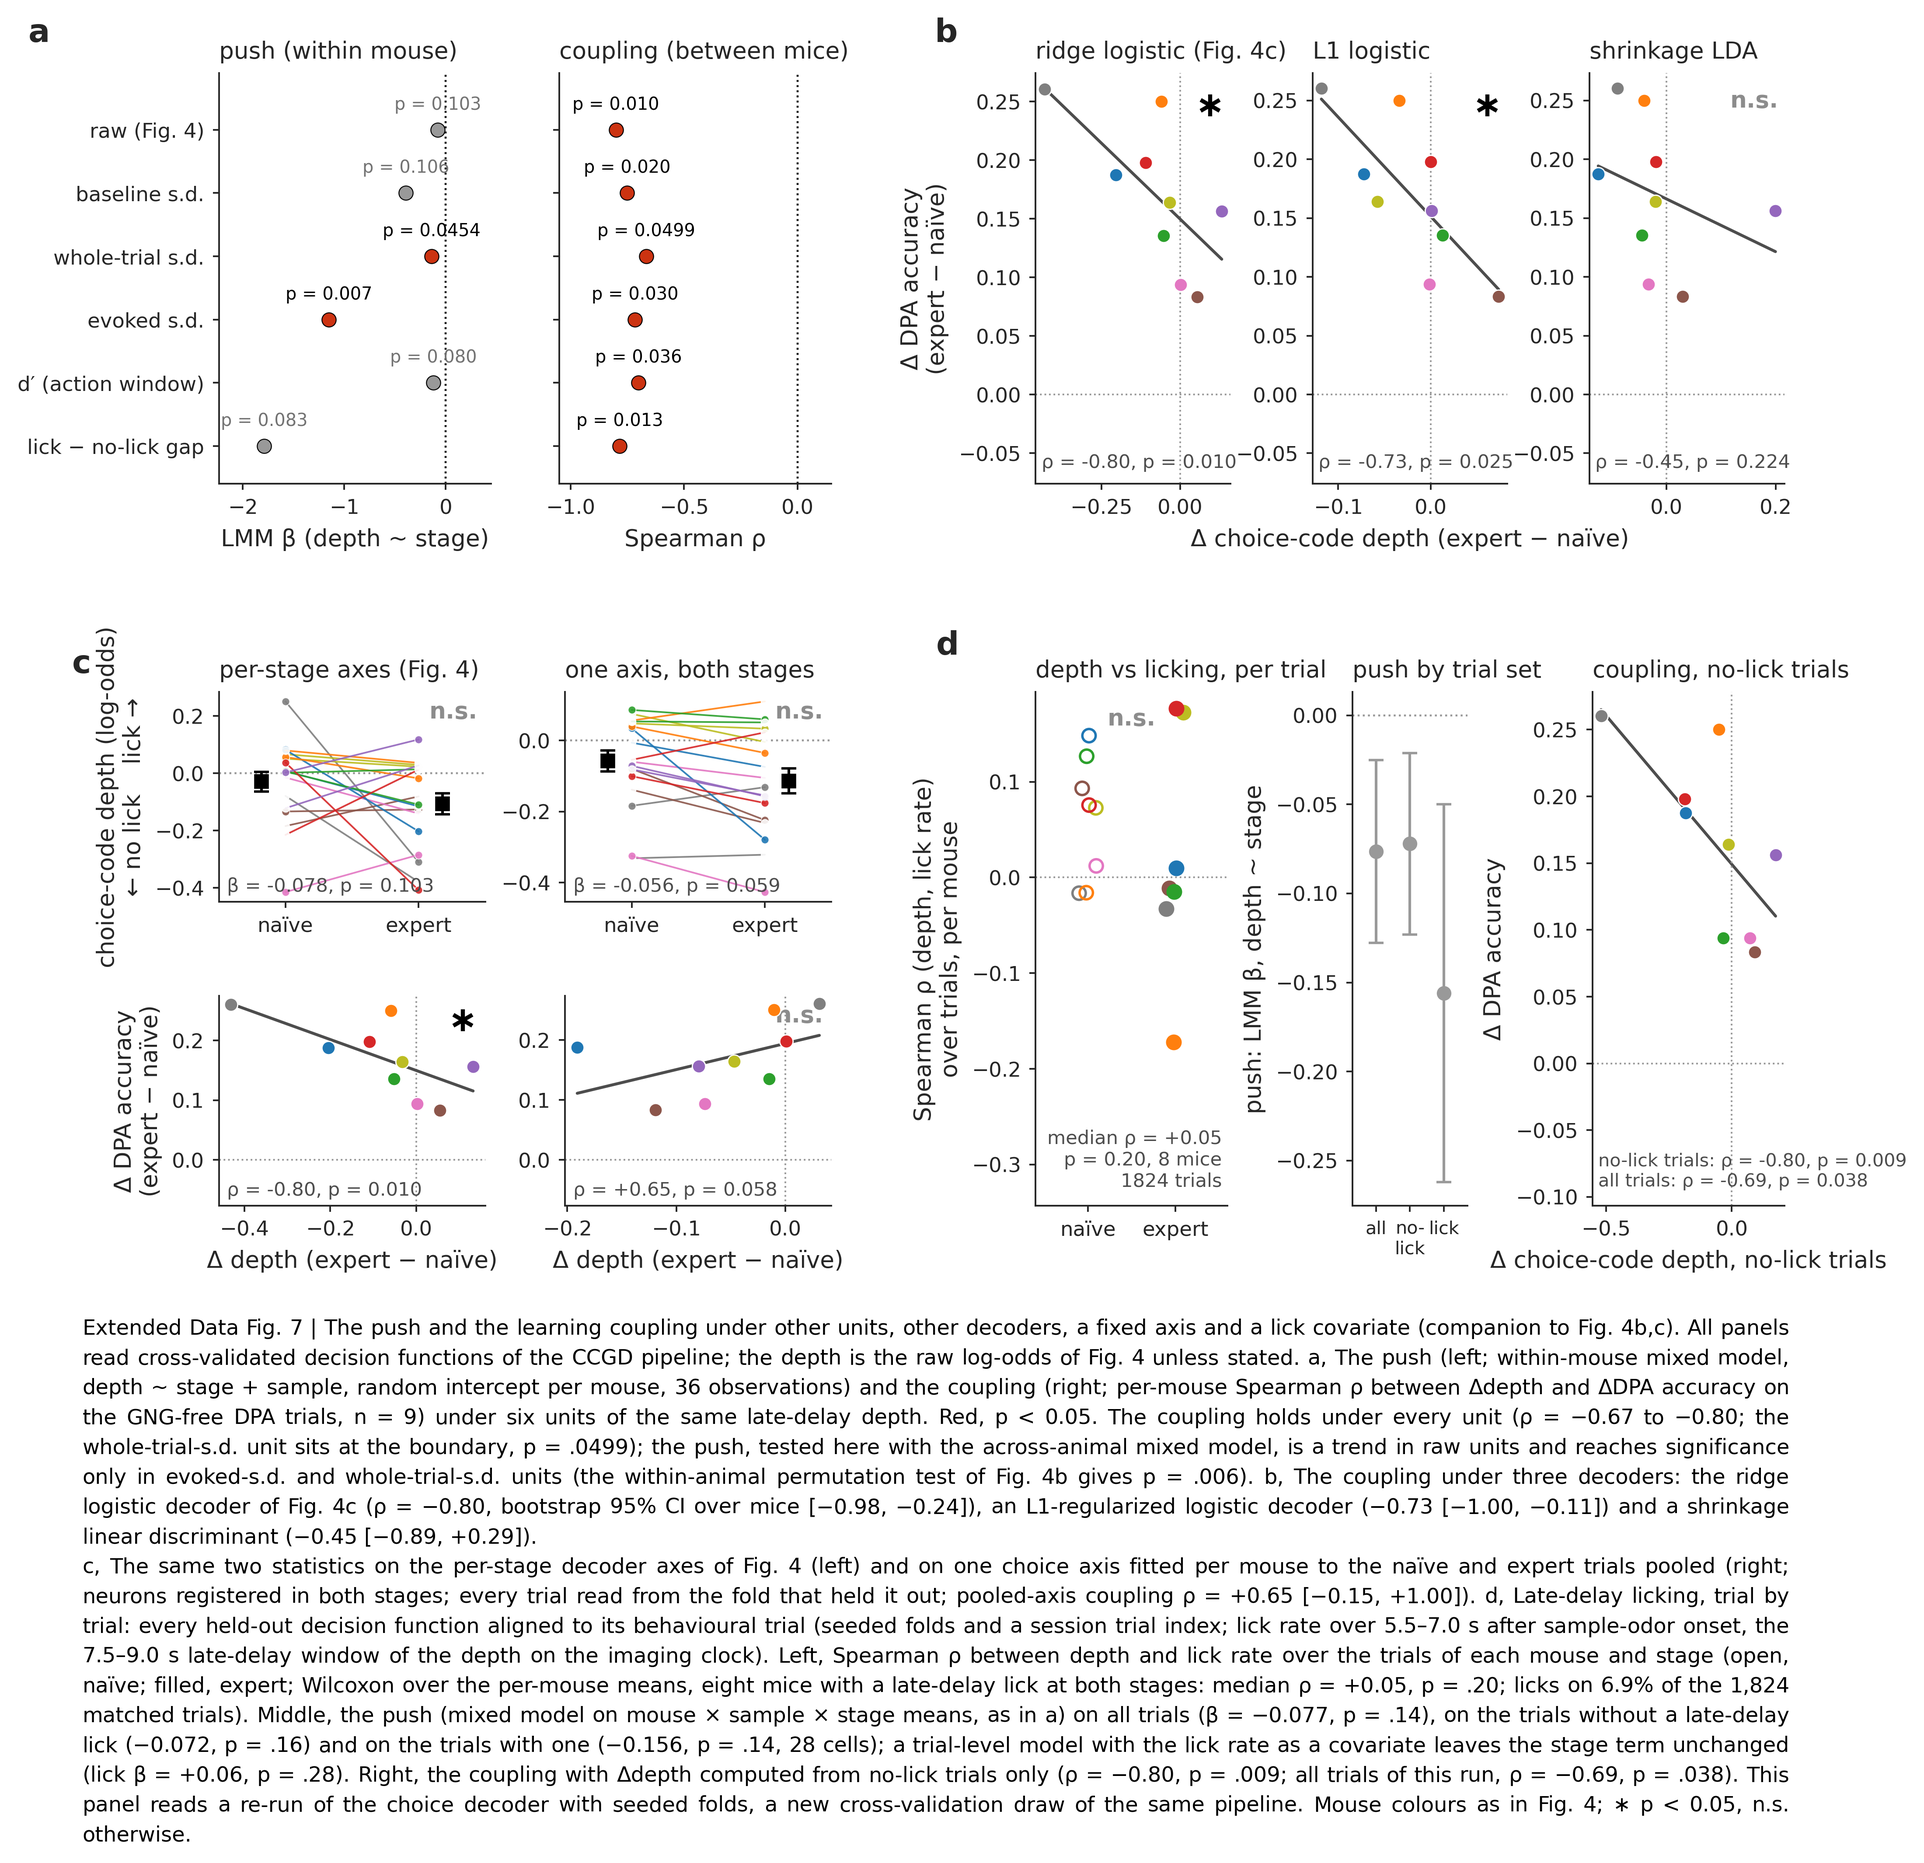
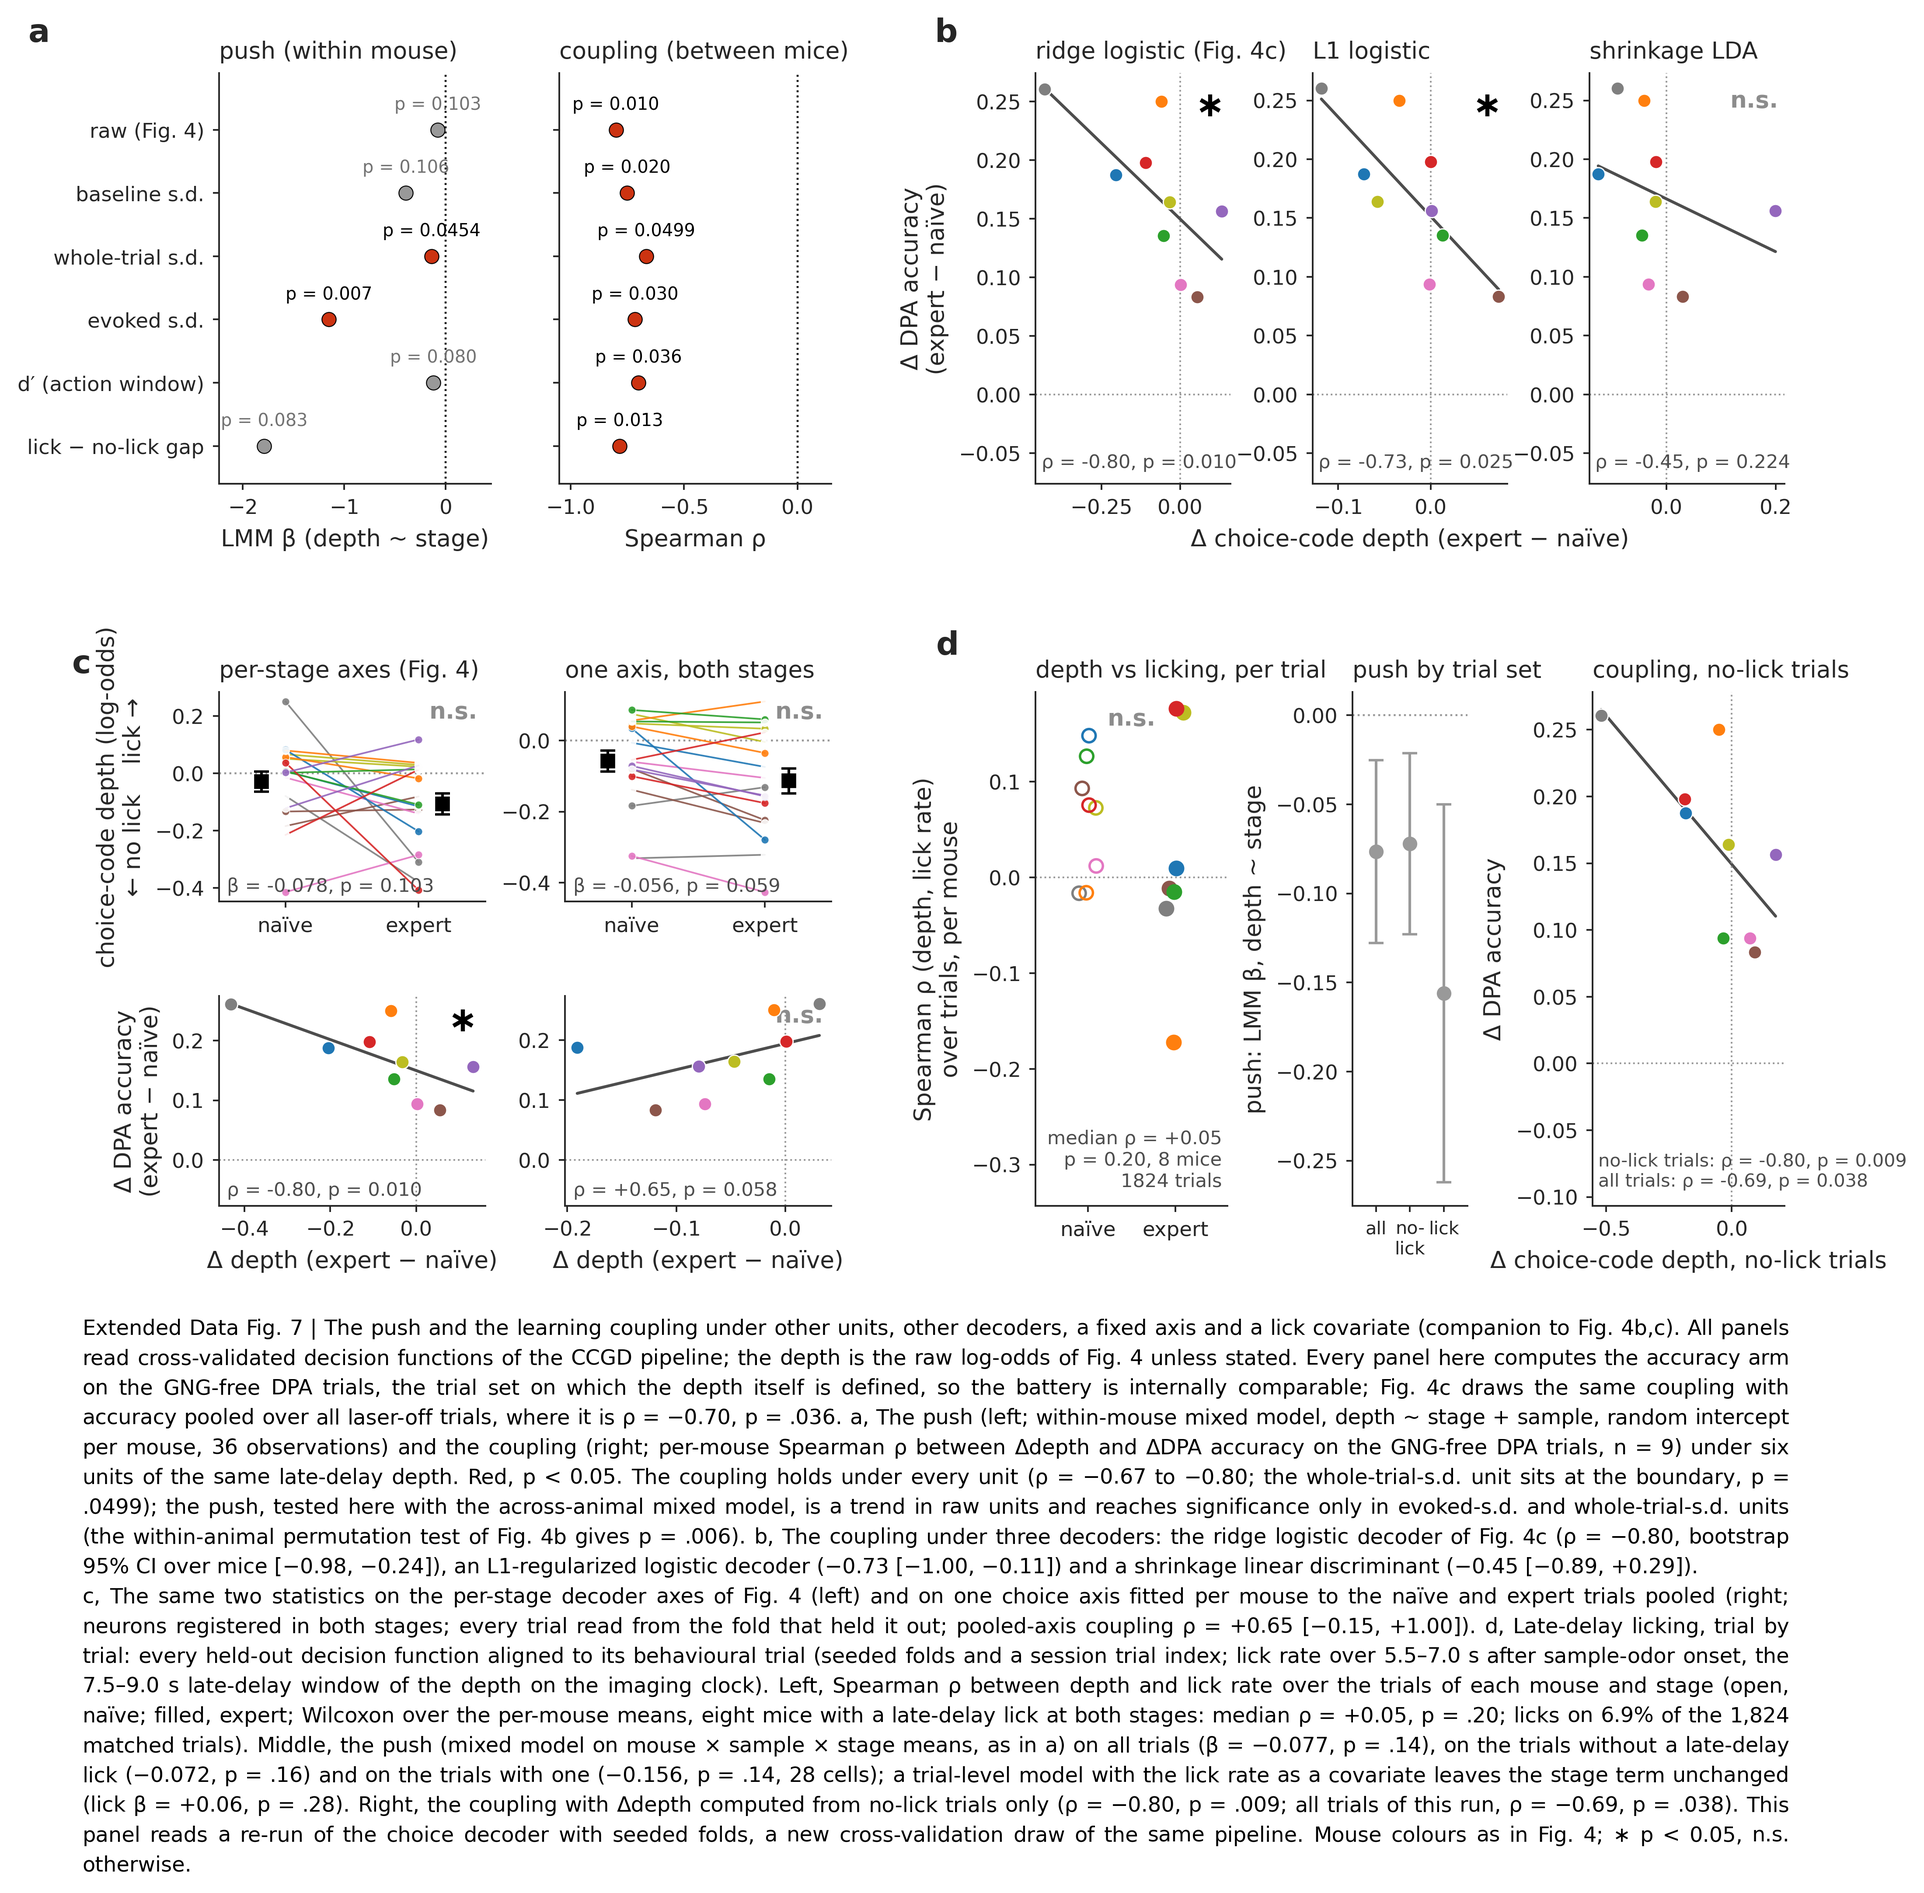
Fig 4c: the accuracy arm is computed on all laser-off trials; draft v12.54
Leon: "change panel c to all trials in the published figure". The drawn coupling
weakens from rho -0.80, p .010 to rho -0.70, p .036 (n = 9, per-mouse Spearman,
two-sided). Ranks are identical to the dual-trial arm, as when this was first
checked in September. The panel label now reads "Delta DPA accuracy, all trials".

main_panels.PERFSET defaults to 'all'; --dpaperf restores the build published
through 2026-09-18 and --dualperf the dual-trial arm. Only the accuracy arm
moved. The depth is still the late-delay choice-axis log-odds on all laser-off
DPA trials.

Caught in the same pass: exp_coupling_variants.py reads the module-level accuracy
vector, so the new default silently moved the Extended Data decoder battery as
well, taking L1 from rho -0.73, p .025 to -0.65, p .058 and out of significance.
The remaining ED 7 panels hard-code the DPA arm for depth and accuracy together
and cannot follow without changing what the depth means, so the battery is pinned
to the DPA arm, ED 7's legend states that and quotes the all-trial value, and the
Results sentence about the L1 and LDA decoders names the arm it uses.

Fig 4 and ED 7 re-rendered with fresh submission PDFs; all three artifacts
republished.

Claude-Session: https://claude.ai/code/session_01PzGzWMKHPqqyp4poHedntF

diff --git a/overlaps/fig_overlaps_main_native.py b/overlaps/fig_overlaps_main_native.py
@@ -255,7 +255,7 @@ if __name__ == '__main__':
     # ── C: Δdepth ↔ Δperf (Expert−Naive), A&B independent (ΔDPA | ΔGNG) ──
     gsC = gs[2, 0:6].subgridspec(1, 2, wspace=0.55)
     axC = [fig.add_subplot(gsC[0, 0]), fig.add_subplot(gsC[0, 1])]
-    _pl = 'dual trials' if _MP.DUALPERF else 'DPA trials'
+    _pl = _MP.PERF_LABEL
     C_specs = [(delta_dpa_perf_sample, f'Δ DPA accuracy, {_pl}', 'Δ depth vs Δ DPA accuracy',
                 _panelC_coupling(delta_dpa_perf_sample)),
                (delta_gng_perf_sample, 'Δ GNG accuracy, dual trials', 'Δ depth vs Δ GNG accuracy',
@@ -387,8 +387,8 @@ if __name__ == '__main__':
         'c, The push predicts behavior across animals. Each mouse’s change in depth against its '
         'change in accuracy (circles, the two sample classes per mouse, joined; the regression band, '
         'ρ and p are computed on the nine per-mouse means). The deeper a mouse pushes its memory '
-        'state, the more its DPA accuracy improves (GNG-free DPA trials, ρ = −0.80, p = .010 ∗; on the '
-        'dual trials ρ = −0.70, p = .036 ∗), whereas the same change '
+        'state, the more its DPA accuracy improves (all laser-off trials, ρ = −0.70, p = .036 ∗; on the '
+        'GNG-free DPA trials alone ρ = −0.80, p = .010 ∗), whereas the same change '
         'predicts nothing for GNG (ρ = −0.07, p = .87; Go trials alone ρ = −0.20, p = .61; NoGo trials alone ρ = +0.60, p = .090, a ceiling effect of the already-high naïve NoGo accuracy, Methods). The coupling is specific to the memory task, and it is a property of the stage-specific readouts: on one choice axis fitted to both stages together it does not hold (ρ = +0.65, p = .058; Extended Data Fig. 7c).',
         'd, The push is a between-animal learning effect, not a trial-level readout of accuracy. '
         'Within a stage (naïve unpaired trials), single-trial depth does not separate correct '

diff --git a/overlaps/main_panels.py b/overlaps/main_panels.py
@@ -378,12 +378,17 @@ def _perf_delta_by_sample(perf_col, task_mask):
     return out
 
 
-# 2026-09-09 (Leon): panel c's DPA arm = change in DPA accuracy on the distractor-free DPA trials (kept: ρ −0.72 p .030;
-# on the dual trials or all trials the same ranks give ρ −0.63 p .067 — stated in the text). --dualperf draws the dual-trial arm.
-DUALPERF = '--dualperf' in sys.argv[1:]
-if DUALPERF:
-    FILE_SUF += '_dualperf'
-delta_dpa_perf_sample = _perf_delta_by_sample('performance', (y.tasks != 'DPA') if DUALPERF else (y.tasks == 'DPA'))
+# 2026-09-21 (Leon: "change panel c to all trials in the published figure"): panel c's DPA arm is now the change in
+# DPA accuracy on ALL laser-off trials. Earlier builds stay reachable: --dpaperf = the distractor-free DPA trials
+# (ρ −0.80 p .010, the published build through 2026-09-18), --dualperf = the dual trials only (ρ −0.70 p .036).
+# All trials gives ρ −0.70 p .036, ranks identical to the dual-trial arm; exp_push_nogo_coupling.py prints every slice.
+PERFSET = 'DPA' if '--dpaperf' in sys.argv[1:] else 'dual' if '--dualperf' in sys.argv[1:] else 'all'
+DUALPERF = PERFSET == 'dual'                      # name kept: other scripts read it
+PERF_LABEL = {'all': 'all trials', 'DPA': 'DPA trials', 'dual': 'dual trials'}[PERFSET]
+if PERFSET != 'all':
+    FILE_SUF += f'_{PERFSET.lower()}perf'
+_PERF_MASK = {'all': y.tasks.notna(), 'DPA': y.tasks == 'DPA', 'dual': y.tasks != 'DPA'}[PERFSET]
+delta_dpa_perf_sample = _perf_delta_by_sample('performance', _PERF_MASK)
 delta_gng_perf_sample = _perf_delta_by_sample('odr_perf',    y.tasks != 'DPA')
 
 

diff --git a/overlaps/exp_coupling_variants.py b/overlaps/exp_coupling_variants.py
@@ -19,10 +19,15 @@ if '--worker' in sys.argv:
     import numpy as np
     from scipy.stats import spearmanr
     import main_panels as MP
+    # 2026-09-21: Fig. 4c's drawn accuracy arm moved to ALL laser-off trials, but ED 7's other panels (units,
+    # fixed axis, licking) hard-code the GNG-free DPA trials for both depth and accuracy, so this battery is
+    # PINNED to the DPA arm and the whole ED page stays internally consistent. Do not swap it for
+    # MP.delta_dpa_perf_sample, which now follows the main panel. The all-trial value is in the ED 7 legend.
+    _dpa_perf = MP._perf_delta_by_sample('performance', MP.y.tasks == 'DPA')
     mice, dd, dpa, gng = [], [], [], []
     for mo in MP.ALL_MICE:
         d = np.nanmean([MP.delta_choice_sample[(mo, cls)] for cls, _ in MP.D_SAMPLE_CLASSES])
-        a = np.nanmean([MP.delta_dpa_perf_sample.get((mo, cls), np.nan) for cls, _ in MP.D_SAMPLE_CLASSES])
+        a = np.nanmean([_dpa_perf.get((mo, cls), np.nan) for cls, _ in MP.D_SAMPLE_CLASSES])
         g = np.nanmean([MP.delta_gng_perf_sample.get((mo, cls), np.nan) for cls, _ in MP.D_SAMPLE_CLASSES])
         if np.isfinite(d) and np.isfinite(a):
             mice.append(mo); dd.append(float(d)); dpa.append(float(a)); gng.append(float(g))

diff --git a/overlaps/fig_ed3_coupling.py b/overlaps/fig_ed3_coupling.py
@@ -289,7 +289,10 @@ plabel(axA, 'a', dx=-0.62); plabel(axB, 'b', dx=-0.40); plabel(axCC, 'c', dx=-0.
 CAP = [
     'Extended Data Fig. 7 | The push and the learning coupling under other units, other decoders, a fixed axis and a '
     'lick covariate (companion to Fig. 4b,c). All panels read cross-validated decision functions of the CCGD '
-    'pipeline; the depth is the raw log-odds of Fig. 4 unless stated. a, The push (left; within-mouse mixed model, '
+    'pipeline; the depth is the raw log-odds of Fig. 4 unless stated. Every panel here computes the accuracy arm on '
+    'the GNG-free DPA trials, the trial set on which the depth itself is defined, so the battery is internally '
+    'comparable; Fig. 4c draws the same coupling with accuracy pooled over all laser-off trials, where it is '
+    'ρ = −0.70, p = .036. a, The push (left; within-mouse mixed model, '
     'depth ~ stage + sample, random intercept per mouse, 36 observations) and the coupling (right; per-mouse Spearman '
     'ρ between Δdepth and ΔDPA accuracy on the GNG-free DPA trials, n = 9) under six units of the same late-delay '
     'depth. Red, p < 0.05. The coupling holds under every unit (ρ = −0.67 to −0.80; the whole-trial-s.d. unit sits '

diff --git a/docs/meta_project.md b/docs/meta_project.md
@@ -9,7 +9,7 @@ order** (`make_ed_figures.py`: 1 behaviour/licks, 2 imaging/drift, 3 dimensional
 7 push/coupling controls, 8 opto validation PLACEHOLDER, 9 chronic controls, 10 seven-mouse laser), Supplementary Tables 1–2
 (trial counts, laser-OFF / ON).
 Headline statistics as drawn: Fig 4a alignment Δ|cos| +0.04 p .004 (9/9); Fig 4b push Δ −0.078, within-mouse permutation
-p .006 (across-animal mixed model p .10 in ED 7a); Fig 4c coupling ρ −0.80 p .010 (n = 9; holds on no-lick trials, reverses on
+p .006 (across-animal mixed model p .10 in ED 7a); Fig 4c coupling ρ −0.70 p .036 (n = 9, ALL laser-off trials since 2026-09-21; GNG-free DPA arm −0.80 p .010; holds on no-lick trials, reverses on
 a pooled-stage axis); Fig 6i acute GNG arm ρ −0.69 (per mouse −0.90, n = 5); Fig 3e cross-stage transfer 0.90 / 0.72.
 Two within-animal changes at the detection threshold are disclosed (ED 3c shattering p .055, ED 6b axis alignment p .17).
 ED 4 (2026-09-18, `pca/fig_ed_geometry.py`) is the unsupervised companion to Fig 2: with no label used to find a direction
